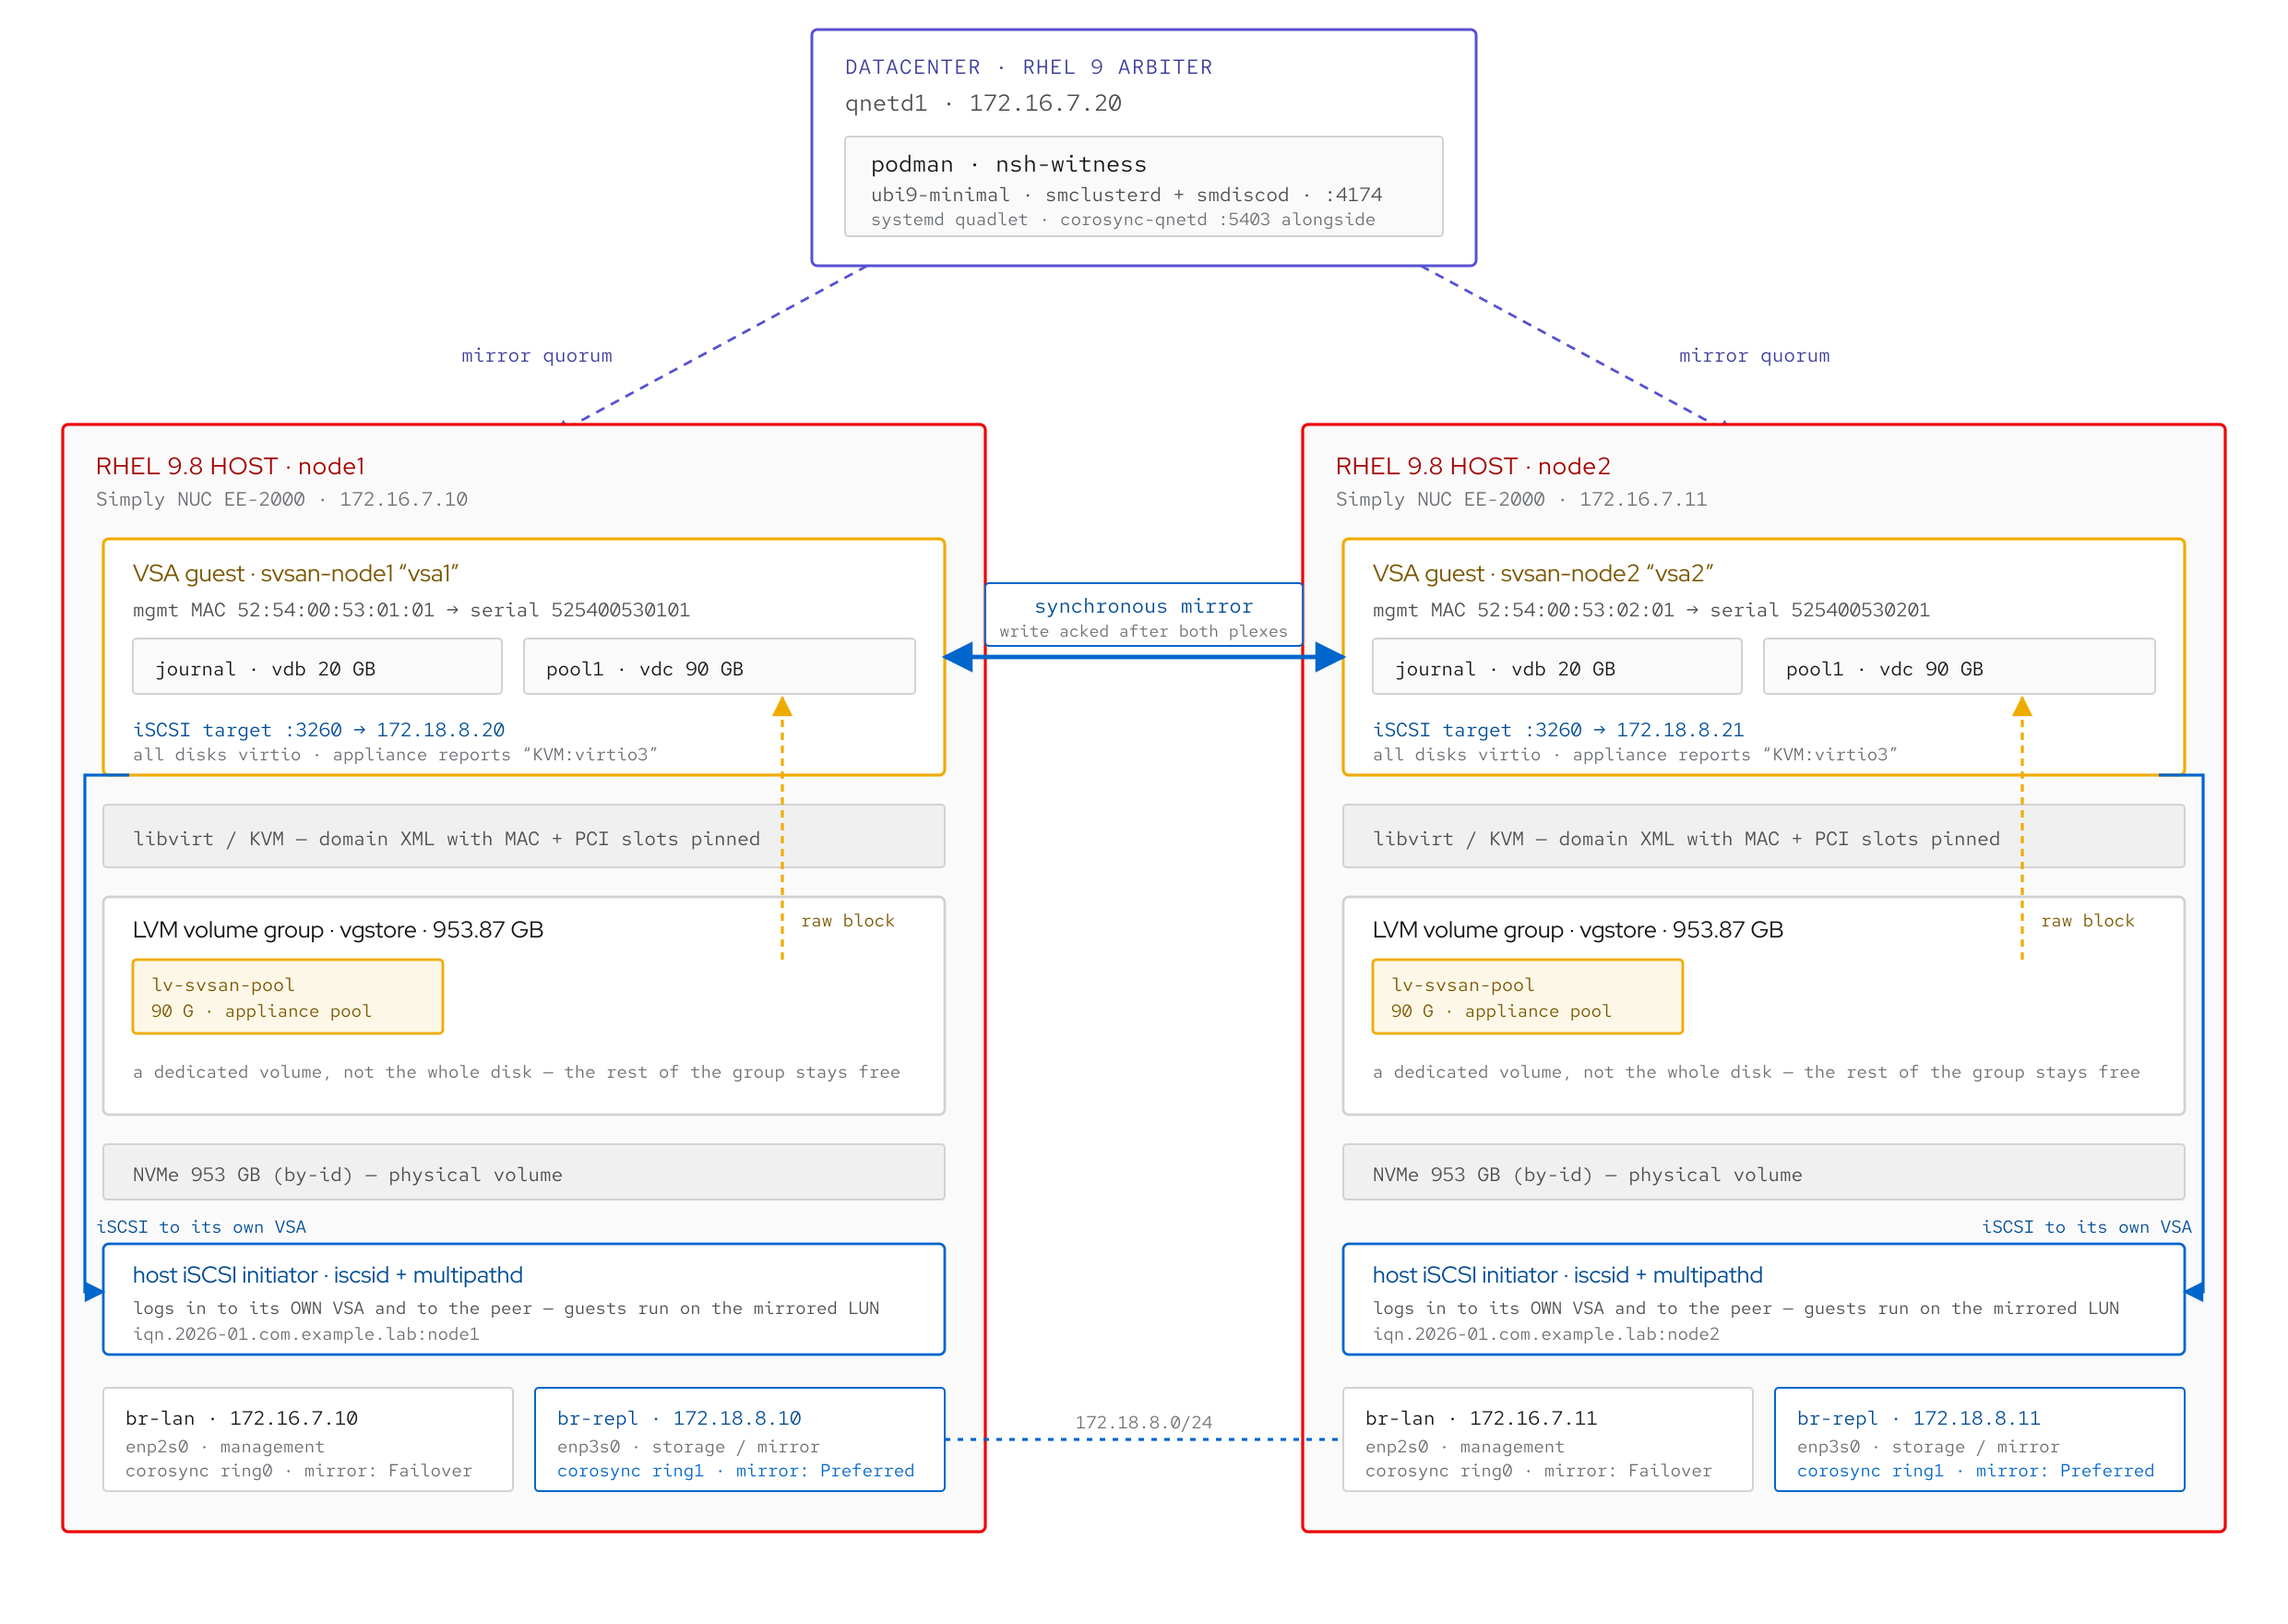
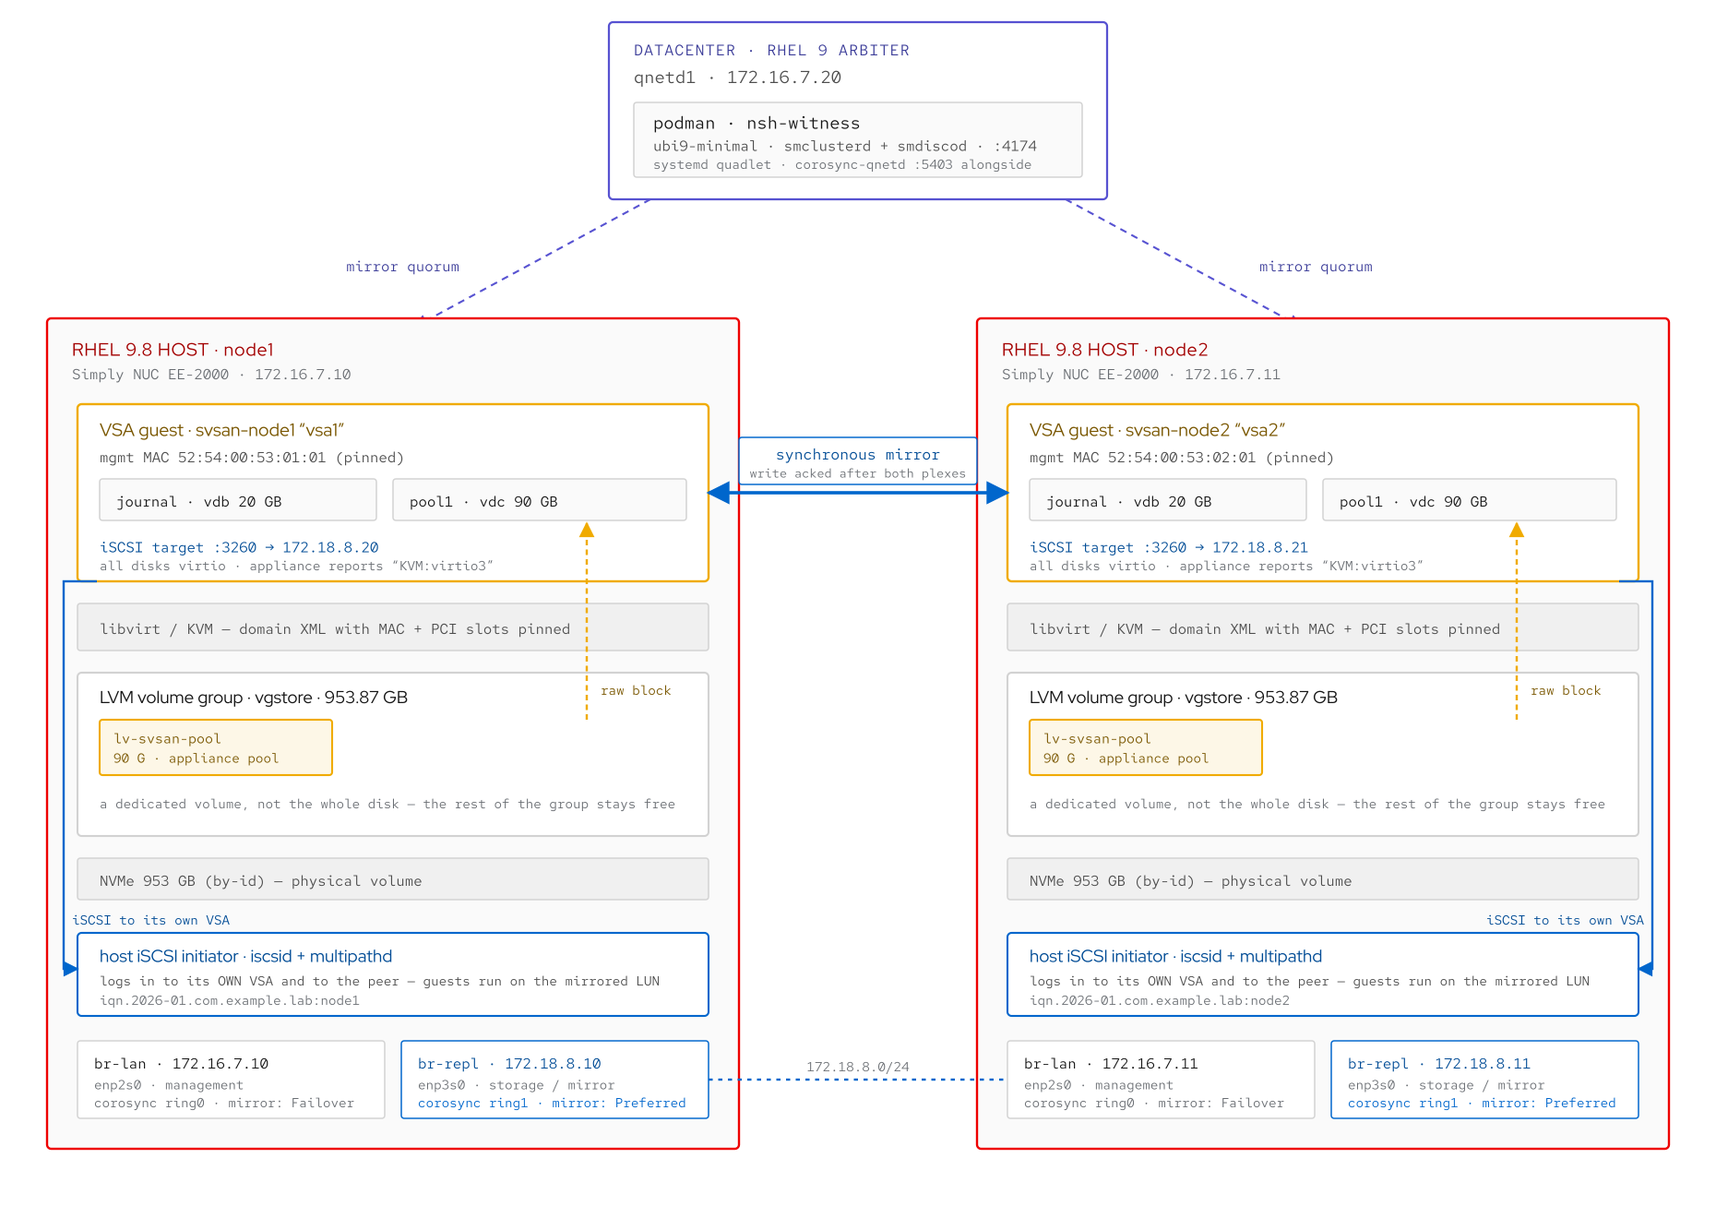
Describe the pinned MACs in terms of appliance identity
The comments and the architecture diagram went into vendor-specific detail that
is not ours to publish and is not needed to follow the build. What matters
operationally is unchanged and now stated directly: pin the MACs so a rebuilt
appliance comes back as the same appliance. Diagram PNG and PDF re-rendered to
match the SVG.

diff --git a/docs/diagrams/svsan-architecture.html b/docs/diagrams/svsan-architecture.html
@@ -139,7 +139,7 @@
     <!-- VSA guests -->
     <rect x="56" y="292" width="456" height="128" rx="3" fill="#ffffff" stroke="#f0ab00" stroke-width="1.6"/>
     <text x="72" y="315" font-family="Red Hat Display, sans-serif" font-size="13" font-weight="500" fill="#795600">VSA guest · svsan-node1 “vsa1”</text>
-    <text x="72" y="334" font-family="Red Hat Mono, monospace" font-size="10.5" fill="#4d4d4d">mgmt MAC 52:54:00:53:01:01 → serial 525400530101</text>
+    <text x="72" y="334" font-family="Red Hat Mono, monospace" font-size="10.5" fill="#4d4d4d">mgmt MAC 52:54:00:53:01:01 (pinned)</text>
     <rect x="72" y="346" width="200" height="30" rx="2" fill="#fafafa" stroke="#d2d2d2"/>
     <text x="84" y="366" font-family="Red Hat Mono, monospace" font-size="10.5" fill="#151515">journal · vdb 20 GB</text>
     <rect x="284" y="346" width="212" height="30" rx="2" fill="#fafafa" stroke="#d2d2d2"/>
@@ -149,7 +149,7 @@
 
     <rect x="728" y="292" width="456" height="128" rx="3" fill="#ffffff" stroke="#f0ab00" stroke-width="1.6"/>
     <text x="744" y="315" font-family="Red Hat Display, sans-serif" font-size="13" font-weight="500" fill="#795600">VSA guest · svsan-node2 “vsa2”</text>
-    <text x="744" y="334" font-family="Red Hat Mono, monospace" font-size="10.5" fill="#4d4d4d">mgmt MAC 52:54:00:53:02:01 → serial 525400530201</text>
+    <text x="744" y="334" font-family="Red Hat Mono, monospace" font-size="10.5" fill="#4d4d4d">mgmt MAC 52:54:00:53:02:01 (pinned)</text>
     <rect x="744" y="346" width="200" height="30" rx="2" fill="#fafafa" stroke="#d2d2d2"/>
     <text x="756" y="366" font-family="Red Hat Mono, monospace" font-size="10.5" fill="#151515">journal · vdb 20 GB</text>
     <rect x="956" y="346" width="212" height="30" rx="2" fill="#fafafa" stroke="#d2d2d2"/>
